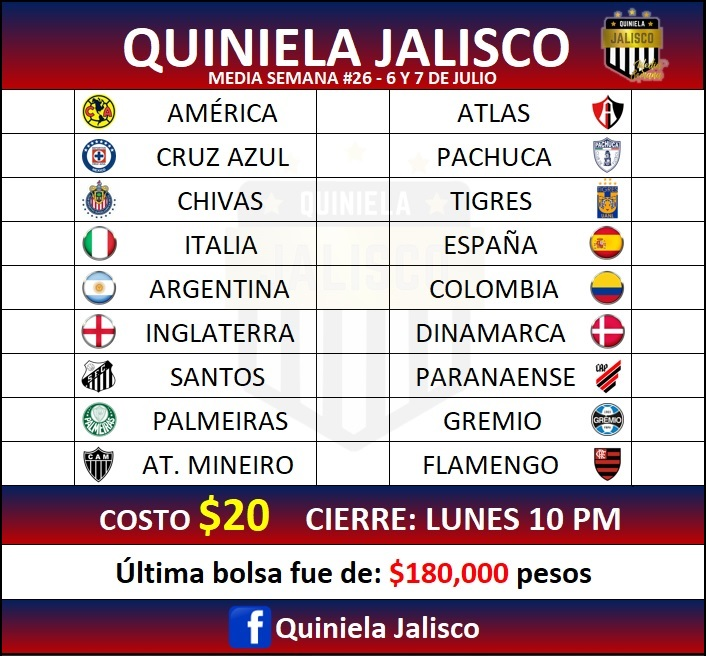
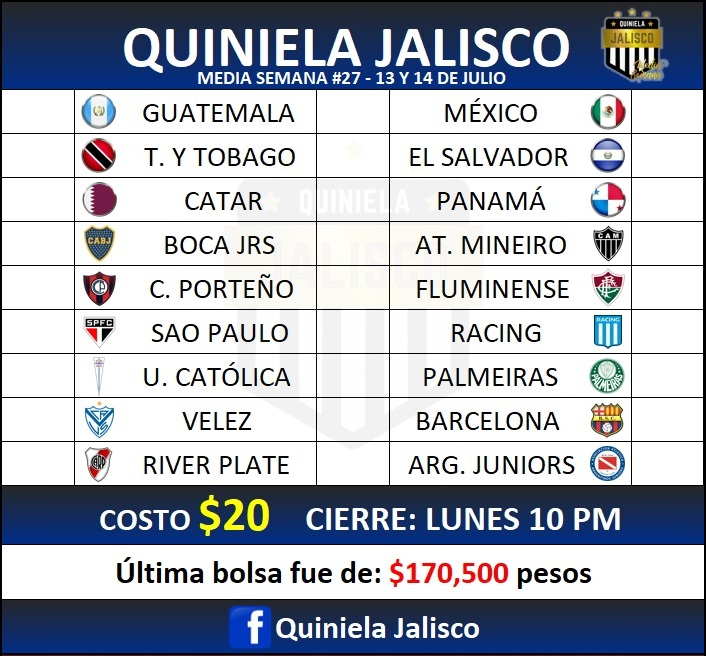
Media Semana #27

diff --git a/MediaSemana/stylesm.css b/MediaSemana/stylesm.css
@@ -89,8 +89,8 @@ h1{
     margin-top: 8%;
     border: solid 1px black;
     border-radius: 0 0 14px 14px;
-    background: -webkit-linear-gradient(0.5turn, rgb(181,2,5)  ,rgb(8,32,92) 80%);
-    background: linear-gradient(0.5turn, rgb(181,2,5)  ,rgb(8,32,92) 80%);
+    background: -webkit-linear-gradient(0.5turn, rgb(3,45,129)  ,rgb(35,39,48) 80%);
+    background: linear-gradient(0.5turn, rgb(3,45,129)  ,rgb(35,39,48) 80%);
     font-size: x-large;
     text-shadow: 3px 3px 3px black;
 }
